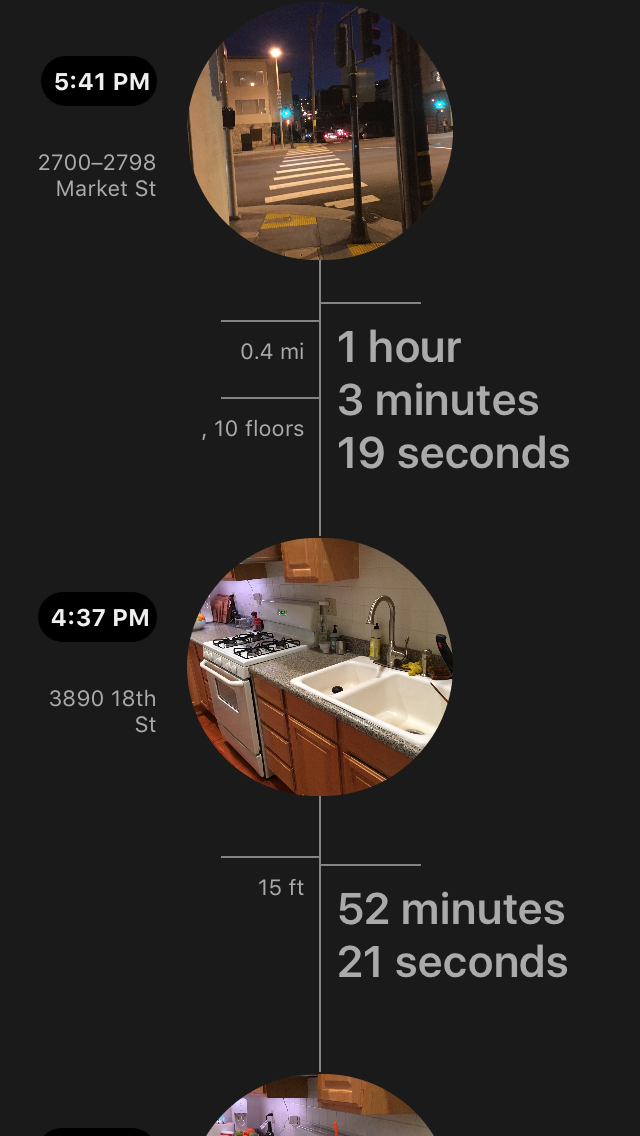
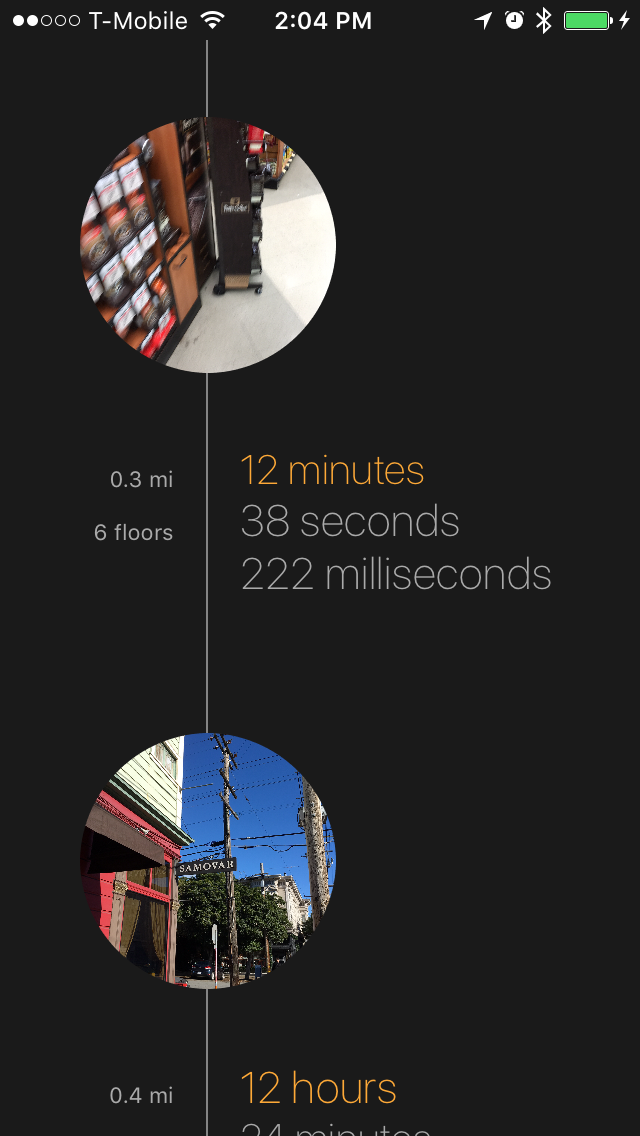
new screenshot

diff --git a/Photometer/ViewController.swift b/Photometer/ViewController.swift
@@ -17,7 +17,7 @@ class ViewController: UIViewController, PhotoTableAdapterDelegate {
 
     
     override func prefersStatusBarHidden() -> Bool {
-        return true
+        return false
     }
 
     override func preferredStatusBarStyle() -> UIStatusBarStyle {
@@ -61,9 +61,9 @@ class ViewController: UIViewController, PhotoTableAdapterDelegate {
     func refreshPhotoList(){
         fetcher.getAll { (photos) -> Void in
             print("Done getting all \(photos.count) images. Reloading data")
-
             self.adapter.allPhotos = photos
             self.photoTable.reloadData()
+            self.photoTable.contentOffset = CGPointMake(0, 128)
         }
     }
 
